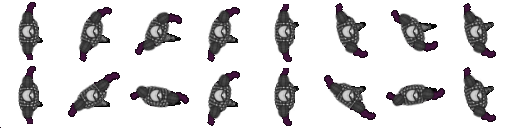
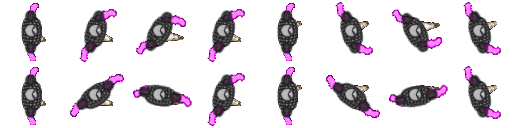
init

diff --git a/public/app/BaseCharacter.js b/public/app/BaseCharacter.js
@@ -1,40 +1,40 @@
 // BaseCharacter
 var _basicHandMap = [
     [
-        [-1, 25, 90, false],
-        [-8, 26, 105, false],
-        [-21, 25, 130, false],
-        [-8, 26, 105, false],
-        [-1, 25, 90, false],
-        [13, 21, 75, false],
-        [20, 12, 50, false],
-        [13, 21, 75, false],
-        [-1, 26, 260, false],
-        [-23, 18, 290, false],
-        [-27, -1, 310, false],
-        [-12, 25, 180, false],
-        [-1, 26, 160, false],
-        [20, 20, 115, false],
-        [28, -1, 60, false],
-        [13, 21, 75, false]
+        [0,26,90,false],
+        [-13,26,105,false],
+        [-21,19,130,false],
+        [-13,26,105,false],
+        [0,26,90,false],
+        [17,19,75,false],
+        [23,10,50,false],
+        [17,19,75,false],
+        [0,26,260,false],
+        [-23,16,290,false],
+        [-24,-3,310,false],
+        [-13,26,180,false],
+        [0,26,160,false],
+        [23,16,115,false],
+        [-24,3,60,false],
+        [17,19,75,false]
     ],
     [
-        [1, -25, 0, false],
-        [8, -20, 15, false],
-        [16, -15, 30, false],
-        [8, -20, 15, false],
-        [1, -25, 0, false],
-        [-13, -21, -25, false],
-        [-15, -12, -40, false],
-        [-13, -21, -25, false],
-        [1, -26, 0, false],
-        [23, -18, 50, false],
-        [27, 4, 90, false],
-        [12, -25, 0, false],
-        [1, -26, -15, false],
-        [-20, -20, -30, false],
-        [-28, 2, -65, false],
-        [-13, -21, -75, false]
+        [3,-27,0,false],
+        [17,-19,15,false],
+        [23,-10,30,false],
+        [17,-19,15,false],
+        [3,-27,0,false],
+        [-13,-26,-25,false],
+        [-21,-19,-40,false],
+        [-13,-26,-25,false],
+        [3,-27,0,false],
+        [23,-19,50,false],
+        [28,7,90,false],
+        [17,-19,0,false],
+        [3,-27,-15,false],
+        [-23,-19,-30,false],
+        [28,-7,-65,false],
+        [-13,-26,-75,false]
     ]
 ];
 
